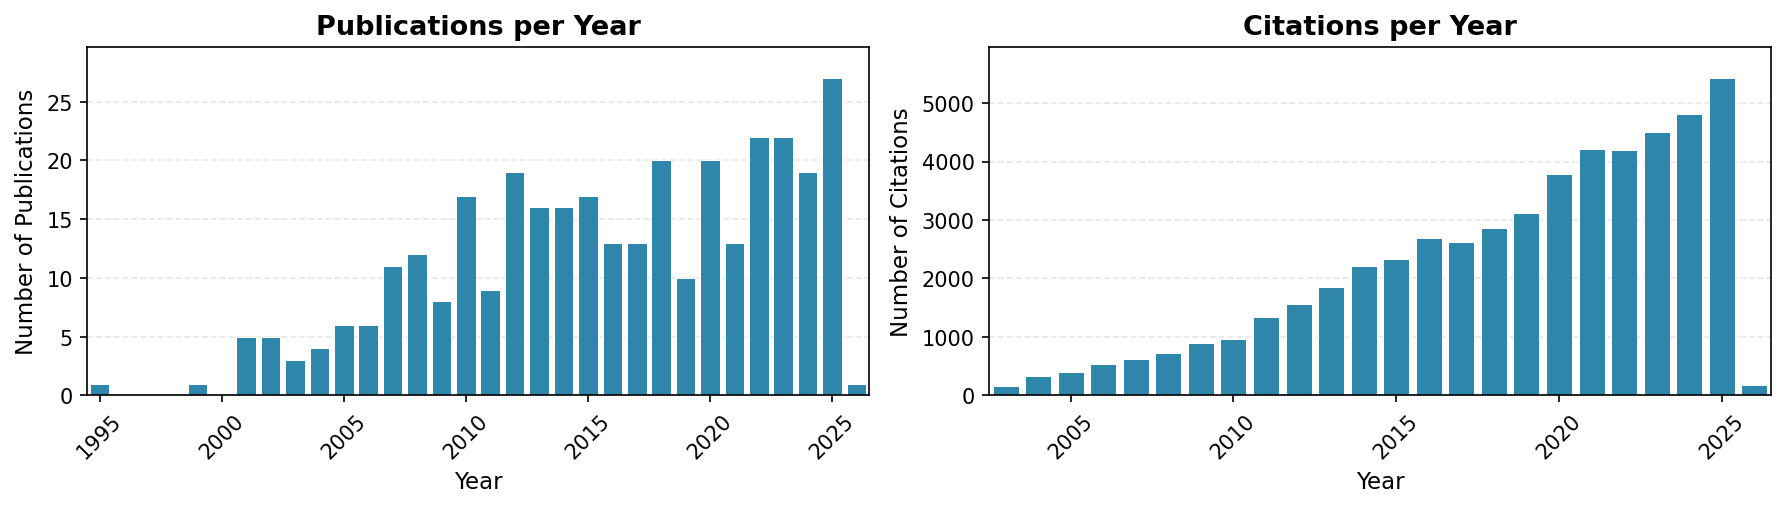
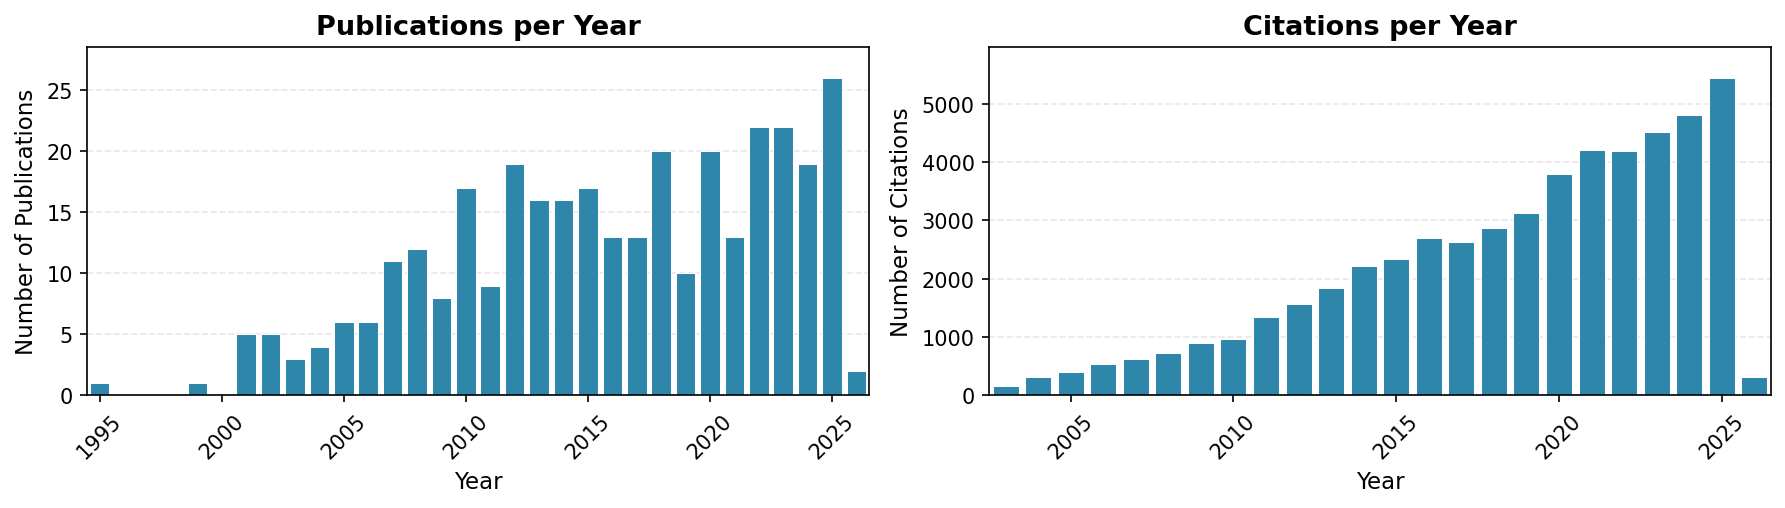
Update publication metrics, add new publication for 2026, and revise citation counts; modify settings and resource files

diff --git a/pages/resources.md b/pages/resources.md
@@ -91,7 +91,7 @@ Example publications describing the Stellar from the MacCoss lab include:
 - **External Tools**: Skyline has an external tool framework. We have a [tool store](http://skyline.ms/tools.url) with 20 tools currently available.
 - **Source Code** is available as part of the [Proteowizard project](https://github.com/ProteoWizard/pwiz).
 - **Original Publication** MacLean et al, [Skyline: an open source document editor for creating and analyzing targeted proteomics experiments](https://academic.oup.com/bioinformatics/article/26/7/966/212410), *Bioinformatics* 2010
-- **Cited:** 5,249 times
+- **Cited:** 5,258 times
 
 ### ![Proteowizard](../assets/images/logos/proteowizard-logo.jpg "Proteowizard")
 **Widely used software tools and libraries for mass spectrometry data analysis.**
@@ -99,7 +99,7 @@ Example publications describing the Stellar from the MacCoss lab include:
 - **Download and Documentation:** [https://proteowizard.sourceforge.io/](https://proteowizard.sourceforge.io/)
 - **Source Code:** Available on [Github](https://github.com/ProteoWizard/pwiz) and licensed under Apache 2.0.
 - **Original Publication:** Chambers et al, [A cross-platform toolkit for mass spectrometry and proteomics](https://www.nature.com/articles/nbt.2377), *Nature Biotechnology* 2012
-- **Cited:** 4,332 times
+- **Cited:** 4,354 times
 
 ### ![Panorama](../assets/images/logos/panorama_logo_h_onwhite_border.png "Panorama")
 **Web-based repository for Skyline documents and colaboration**
@@ -157,7 +157,7 @@ Example publications describing the Stellar from the MacCoss lab include:
 
 **[Browse all MacCoss Lab datasets on Panorama Public →](https://panoramaweb.org/project/Panorama%20Public/begin.view#searchTab:expSearchPanel?Targeted%20MS%20Experiment%20List.authors~containsoneof=MacCoss&)**
 
-*Last updated: January 11, 2026 — 32 datasets available*
+*Last updated: January 23, 2026 — 32 datasets available*
 
 ### Instrumentation
 *Mass spectrometer characterization and benchmarking*
@@ -263,7 +263,7 @@ Example publications describing the Stellar from the MacCoss lab include:
 
 ## Educational Materials
 
-*Last updated: January 06, 2026 — 28 Skyline tutorials available*
+*Last updated: January 23, 2026 — 28 Skyline tutorials available*
 
 ### UWPR Mass Spectrometry Resources
 
@@ -368,12 +368,14 @@ Example publications describing the Stellar from the MacCoss lab include:
 
 </div>
   </div>
+
+
   <div id="support" class="tab-content">
     <div markdown="1">
 
 ## Support & Training
 
-*Last updated: January 11, 2026 — 2 upcoming events, 101 past events, 27 webinars*
+*Last updated: January 23, 2026 — 2 upcoming events, 101 past events, 27 webinars*
 
 ### Forums and Discussion
 - [Skyline Support Board](https://skyline.ms/forum)
@@ -420,11 +422,11 @@ The Skyline Team presents tutorial webinars designed to help you get the most ou
 <div id="events-2025" style="display: block;">
 <h4>2025 Events</h4>
 <ul>
-<li><a href="https://skyline.ms/home/software/Skyline/events/2025-10%20Skyline%20Online/project-begin.view">Skyline Online 2025</a> (October 7-17, 2025)</li>
+<li><a href="https://skyline.ms/2025-10%20Skyline%20Online/project-begin.view">Skyline Online 2025</a> (October 7-17, 2025)</li>
 <li><a href="https://meetings.embo.org/event/25-targeted-proteomics">Practical Course on Targeted Proteomics</a> - Barcelona, Spain (October 5-10, 2025)</li>
-<li><a href="https://skyline.ms/home/software/Skyline/events/2025%20UW%20Course/project-begin.view">Skyline Course at the University of Washington</a> - Seattle, WA (July 7 - 11, 2025)</li>
+<li><a href="https://skyline.ms/2025%20UW%20Course/project-begin.view">Skyline Course at the University of Washington</a> - Seattle, WA (July 7 - 11, 2025)</li>
 <li><a href="https://www.asms.org/conferences/annual-conference/short-courses">Two-day Short Course: 08 Quantitative Proteomics: Case Studies</a> - Baltimore, MD</li>
-<li><a href="https://skyline.ms/2025-ugm.url">Skyline User Group Meeting</a> - Baltimore, MD (June 1, 2025)</li>
+<li><a href="https://skyline.ms/../../../../2025-ugm.url">Skyline User Group Meeting</a> - Baltimore, MD (June 1, 2025)</li>
 <li><a href="https://computationalproteomics.khoury.northeastern.edu/">May Institute - Computation and statistics for mass spectrometry and proteomics</a> - Northeastern University</li>
 <li><a href="https://www.isas.de/en/events/skyline-course-2025">2025 ISAS Dortmund Skyline Training Course</a> - Dortmund (April 7-10, 2025)</li>
 </ul>
@@ -434,10 +436,10 @@ The Skyline Team presents tutorial webinars designed to help you get the most ou
 <h4>2024 Events</h4>
 <ul>
 <li><a href="https://courses.crg.eu/events/targetedproteomics">Practical Course on Targeted Proteomics</a> - Barcelona, Spain (November 17-22, 2024)</li>
-<li><a href="https://skyline.ms/home/software/Skyline/events/2024-10%20Skyline%20Online/project-begin.view">2024 Skyline Online</a></li>
-<li><a href="https://skyline.ms/home/software/Skyline/events/2024%20UW%20Course/project-begin.view">UW Targeted Mass Spectrometry Course</a> - Seattle, WA (July 8 - 12, 2024)</li>
+<li><a href="https://skyline.ms/2024-10%20Skyline%20Online/project-begin.view">2024 Skyline Online</a></li>
+<li><a href="https://skyline.ms/2024%20UW%20Course/project-begin.view">UW Targeted Mass Spectrometry Course</a> - Seattle, WA (July 8 - 12, 2024)</li>
 <li><a href="https://www.asms.org/conferences/annual-conference/short-courses/two-day-courses%0A">Two-day Short Course: 08 Quantitative Proteomics: Case Studies</a> - Anaheim, CA (June 1 - 2, 2024)</li>
-<li><a href="https://skyline.ms/home/software/Skyline/events/2024%20User%20Group%20Meeting%20at%20ASMS/project-begin.view">Skyline User Group Meeting</a> - Anaheim, CA (June 2, 2024)</li>
+<li><a href="https://skyline.ms/2024%20User%20Group%20Meeting%20at%20ASMS/project-begin.view">Skyline User Group Meeting</a> - Anaheim, CA (June 2, 2024)</li>
 <li><a href="https://computationalproteomics.khoury.northeastern.edu/">May Institute - Computation and statistics for mass spectrometry and proteomics</a> - Northeastern University</li>
 <li><a href="https://www.isas.de/en/events/skyline2024">2024 ISAS Dortmund Skyline Training Course</a> - Dortmund (March 4-7, 2024)</li>
 <li><a href="https://portal.iitb.ac.in/ceqipapp/courseDetails.jsp?c_id=5476">2024 Advances in Proteomics Technologies Hands-on Workshop</a> - IIT, Bombay (February 17-18, 2024)</li>
@@ -449,9 +451,9 @@ The Skyline Team presents tutorial webinars designed to help you get the most ou
 <ul>
 <li><a href="https://meetings.embo.org/event/23-targeted-proteomics">Targeted Proteomics Course</a> (November 12 - 17, 2023)</li>
 <li><a href="https://www.ctosymposium.org/workshop">Option 2: Clinical and Translational Omics Symposium</a> (November 3, 2023)</li>
-<li><a href="https://skyline.ms/home/software/Skyline/events/2023-10%20Skyline%20Online/project-begin.view">2023-10 Skyline Online</a></li>
-<li><a href="https://skyline.ms/home/software/Skyline/events/2023%20UW%20Course/project-begin.view">UW Targeted Mass Spectrometry Course</a> - Seattle, WA</li>
-<li><a href="https://skyline.ms/2023-ugm.url">Skyline User Group Meeting at ASMS</a> - Houston, TX (June 4, 2023)</li>
+<li><a href="https://skyline.ms/2023-10%20Skyline%20Online/project-begin.view">2023-10 Skyline Online</a></li>
+<li><a href="https://skyline.ms/2023%20UW%20Course/project-begin.view">UW Targeted Mass Spectrometry Course</a> - Seattle, WA</li>
+<li><a href="https://skyline.ms/../../../../2023-ugm.url">Skyline User Group Meeting at ASMS</a> - Houston, TX (June 4, 2023)</li>
 <li><a href="https://www.asms.org/conferences/annual-conference/short-courses/two-day-courses">Short Course at ASMS</a> - Houston, TX (June 3-4, 2023)</li>
 <li><a href="https://www.isas.de/en/compact/skyline-course-2023-register-now">2023 ISAS Dortmund Skyline Training Course</a> - Dortmund (March 20-23, 2023)</li>
 <li><a href="https://mrmproteomics.com/product/workshop-registration/">MRM Proteomics Virtual MRM Targeted Quantitation Workshop</a> (January 21-22, 2023)</li>
@@ -461,30 +463,30 @@ The Skyline Team presents tutorial webinars designed to help you get the most ou
 <div id="events-2022" style="display: none;">
 <h4>2022 Events</h4>
 <ul>
-<li><a href="https://skyline.ms/home/software/Skyline/events/2022-10%20Skyline%20Online/page.view?name=all-sessions">2022-10 Skyline Online</a> (October 10 - 21, 2022)</li>
-<li><a href="https://skyline.ms/2022-uw-course.url">UW Targeted Mass Spectrometry Course</a> - Seattle, WA</li>
-<li><a href="https://skyline.ms/2022-ugm.url">Skyline User Group Meeting at ASMS (in-person)</a> - Minneapolis, MN (June 5, 2022)</li>
+<li><a href="https://skyline.ms/2022-10%20Skyline%20Online/page.view?name=all-sessions">2022-10 Skyline Online</a> (October 10 - 21, 2022)</li>
+<li><a href="https://skyline.ms/../../../../2022-uw-course.url">UW Targeted Mass Spectrometry Course</a> - Seattle, WA</li>
+<li><a href="https://skyline.ms/../../../../2022-ugm.url">Skyline User Group Meeting at ASMS (in-person)</a> - Minneapolis, MN (June 5, 2022)</li>
 <li><a href="https://computationalproteomics.khoury.northeastern.edu/">May Institute - Computation and statistics for mass spectrometry and proteomics</a> - Northeastern University (May 9 - 20, 2022)</li>
-<li><a href="https://skyline.ms/home/software/Skyline/events/2022%20Skyline%20Online/project-begin.view">2022 Skyline Online</a> (February 7 - 18, 2022)</li>
+<li><a href="https://skyline.ms/2022%20Skyline%20Online/project-begin.view">2022 Skyline Online</a> (February 7 - 18, 2022)</li>
 </ul>
 </div>
 
 <div id="events-2021" style="display: none;">
 <h4>2021 Events</h4>
 <ul>
-<li><a href="https://skyline.ms/2021-ugm.url">Skyline User Group Meeting at ASMS online</a> (October 27 - 28, 2021)</li>
+<li><a href="https://skyline.ms/../../../../2021-ugm.url">Skyline User Group Meeting at ASMS online</a> (October 27 - 28, 2021)</li>
 <li><a href="https://computationalproteomics.khoury.northeastern.edu/">May Institute - Computation and statistics for mass spectrometry and proteomics</a> - Northeastern University (May 3 - 14, 2021)</li>
-<li><a href="https://skyline.ms/home/software/Skyline/events/2021%20Skyline%20Online/project-begin.view">2021 Skyline Online</a> (April 12- 24, 2021)</li>
+<li><a href="https://skyline.ms/2021%20Skyline%20Online/project-begin.view">2021 Skyline Online</a> (April 12- 24, 2021)</li>
 </ul>
 </div>
 
 <div id="events-2020" style="display: none;">
 <h4>2020 Events</h4>
 <ul>
-<li><a href="https://skyline.ms/home/software/Skyline/events/2020%20Skyline%20Online/project-begin.view">2020 Skyline Online</a></li>
-<li><a href="https://skyline.ms/2020-ugm.url">Skyline User Group Meeting at ASMS online</a> (May 27 - 28, 2020)</li>
+<li><a href="https://skyline.ms/2020%20Skyline%20Online/project-begin.view">2020 Skyline Online</a></li>
+<li><a href="https://skyline.ms/../../../../2020-ugm.url">Skyline User Group Meeting at ASMS online</a> (May 27 - 28, 2020)</li>
 <li><a href="https://computationalproteomics.ccis.northeastern.edu/">May Institute for computation and statistics for mass spectrometry and proteomics</a> - Boston MA</li>
-<li><a href="https://skyline.ms/2020-buck-course.url">Targeted Proteomics Course</a> (April 13 - 17, 2020)</li>
+<li><a href="https://skyline.ms/../../../../2020-buck-course.url">Targeted Proteomics Course</a> (April 13 - 17, 2020)</li>
 </ul>
 </div>
 
@@ -493,11 +495,11 @@ The Skyline Team presents tutorial webinars designed to help you get the most ou
 <ul>
 <li><a href="https://web.archive.orghttp//meetings.embo.org/event/19-proteomics">Targeted Proteomics Course</a> (November 11 - 15, 2019)</li>
 <li><a href="https://www.qut.edu.au/institute-for-future-environments/about/events/carf-skyline-workshop">Pre-HUPO Targeted Proteomics Course</a> (September 9 - 13, 2019)</li>
-<li><a href="https://skyline.ms/home/software/Skyline/events/2019%20UW%20Course/project-begin.view">Skyline@UW: Targeted Quantitiative Mass Spec Course</a> - Seattle WA</li>
+<li><a href="https://skyline.ms/2019%20UW%20Course/project-begin.view">Skyline@UW: Targeted Quantitiative Mass Spec Course</a> - Seattle WA</li>
 <li><a href="https://computationalproteomics.ccis.northeastern.edu/">May Institute for computation and statistics for mass spectrometry and proteomics</a> - Boston MA</li>
 <li><a href="https://www.msacl.org/index.php?header=MSACL_2019_US&tab=Details&subtab=Short_Courses#skyline">Practical Proteomics with Skyline Short Course</a></li>
 <li><a href="https://www.msacl.org/index.php?header=MSACL_2019_US&tab=Details&subtab=Description">MSACL</a></li>
-<li><a href="https://skyline.ms/2019-buck-reg.url">Targeted Proteomics Course</a> (March 18 - 22, 2019)</li>
+<li><a href="https://skyline.ms/../../../../2019-buck-reg.url">Targeted Proteomics Course</a> (March 18 - 22, 2019)</li>
 <li><a href="https://web.archive.orghttp//www.ushupo.org/Conference/ShortCourses/tabid/68/Default.aspx#Design">Design and Analysis of Quantitative Proteomic Experiments</a> (March 2 - 3, 2019)</li>
 <li><a href="https://www.ushupo.org/Home/tabid/36/Default.aspx">US HUPO</a> (March 2 - 3, 2019)</li>
 </ul>
@@ -506,18 +508,18 @@ The Skyline Team presents tutorial webinars designed to help you get the most ou
 <div id="events-2018" style="display: none;">
 <h4>2018 Events</h4>
 <ul>
-<li><a href="https://skyline.ms/2018-duke-course.url">Skyline@Duke Short Course</a> (December 10 - 14, 2018)</li>
+<li><a href="https://skyline.ms/../../../../2018-duke-course.url">Skyline@Duke Short Course</a> (December 10 - 14, 2018)</li>
 <li><a href="https://web.archive.orghttp//meetings.embo.org/event/18-proteomics">Targeted Proteomics Course</a> (November 12-16, 2018)</li>
 <li><a href="https://web.archive.orghttp//iwtp2018.scievent.com/">International Targeted Proteomics Course</a> (October 22 - 23, 2018)</li>
-<li><a href="https://skyline.ms/home/software/Skyline/events/2018%20UW%20Course/project-begin.view">Targeted Proteomics Course</a> - Seattle WA</li>
+<li><a href="https://skyline.ms/2018%20UW%20Course/project-begin.view">Targeted Proteomics Course</a> - Seattle WA</li>
 <li><a href="https://web.archive.orghttp//dia-swath-course.ethz.ch/">SWATH/DIA Course</a> - Zurich (July 2 - 6, 2018)</li>
-<li><a href="https://skyline.ms/users-2018.url">Skyline User Group Meeting at ASMS</a> (June 3, 2018)</li>
+<li><a href="https://skyline.ms/../../../../users-2018.url">Skyline User Group Meeting at ASMS</a> (June 3, 2018)</li>
 <li><a href="https://web.archive.orghttp//www.asms.org/conferences/annual-conference/short-courses/two-day-courses">Case Studies in Quantitative Proteomics Workshop</a> (June 2 -3, 2018)</li>
 <li><a href="https://web.archive.orghttp//www.asms.org/conferences/annual-conference">ASMS</a> (June 2 -3, 2018)</li>
 <li><a href="https://web.archive.orghttp//www.asms.org/docs/default-source/conference-short-course-descriptions/14-quantitative-proteomics-case-studies.pdf?sfvrsn=2">Description</a> (June 2 -3, 2018)</li>
 <li><a href="https://web.archive.orghttp//computationalproteomics.ccis.northeastern.edu/">Computation & Statistics for Mass Spec & Proteomics Course</a> - Boston, MA</li>
-<li><a href="https://skyline.ms/home/software/Skyline/events/2018%20Buck%20Institute%20Course/project-begin.view">Targeted Proteomics Course</a> (April 2 - 6, 2018)</li>
-<li><a href="https://skyline.ms/home/software/Skyline/events/2018%20Buck%20Institute%20Course/project-begin.view">Targeted Proteomics Course</a> (April 2 - 6, 2018)</li>
+<li><a href="https://skyline.ms/2018%20Buck%20Institute%20Course/project-begin.view">Targeted Proteomics Course</a> (April 2 - 6, 2018)</li>
+<li><a href="https://skyline.ms/2018%20Buck%20Institute%20Course/project-begin.view">Targeted Proteomics Course</a> (April 2 - 6, 2018)</li>
 <li><a href="https://web.archive.orghttp//www.bio.iitb.ac.in/~sanjeeva/massfiitb/index.php/targeted-proteomics/">Targeted Proteomics Workshop</a> - IIT Bombay (February 24 - 27, 2018)</li>
 <li><a href="https://web.archive.orghttp//www.bio.iitb.ac.in/~sanjeeva/massfiitb/">IIT Bombay</a> - IIT Bombay (February 24 - 27, 2018)</li>
 <li><a href="https://web.archive.orghttp//www.australasianproteomics.org/pre-lorne-workshop-2018/">Pre-Lorne Workshop</a> (January 29-31, 2018)</li>
@@ -531,12 +533,12 @@ The Skyline Team presents tutorial webinars designed to help you get the most ou
 <ul>
 <li><a href="https://web.archive.orghttp//meetings.embo.org/event/17-proteomics">Targeted Proteomics Course</a> (November 13-17, 2017)</li>
 <li><a href="https://web.archive.orghttp//hupo2017.ie/pre-hupo-workshop-on-targeted-proteomics/">Quantitative Proteomic Workshop</a> (Sept 16-17, 2017)</li>
-<li><a href="https://skyline.ms/home/software/Skyline/events/2017%20UW%20Course/project-begin.view">Targeted Proteomics Course</a> - Seattle WA (July 24-28, 2017)</li>
+<li><a href="https://skyline.ms/2017%20UW%20Course/project-begin.view">Targeted Proteomics Course</a> - Seattle WA (July 24-28, 2017)</li>
 <li><a href="https://web.archive.orghttp//dia-swath-course.ethz.ch/">DIA/SWATH Proteomics Course</a> - Zurich (June 26-30, 2017)</li>
-<li><a href="https://skyline.ms/home/software/Skyline/events/2017%20User%20Group%20Meeting%20at%20ASMS/project-begin.view">Skyline User Group Meeting</a> (June 4, 2017)</li>
+<li><a href="https://skyline.ms/2017%20User%20Group%20Meeting%20at%20ASMS/project-begin.view">Skyline User Group Meeting</a> (June 4, 2017)</li>
 <li><a href="https://web.archive.orghttp//www.asms.org/conferences/annual-conference/short-courses/two-day-courses">Short Course #21: Case Studies in Quantitative Proteomics</a> (June 3-4, 2017)</li>
 <li><a href="https://web.archive.orghttp//computationalproteomics.ccis.northeastern.edu/">Computation Statistics for Targeted Proteomics Course</a> - Boston, MA (May 1-3, 2017)</li>
-<li><a href="https://skyline.ms/home/software/Skyline/events/2017%20Buck%20Institute%20Course/project-begin.view">Targeted Proteomics Course</a></li>
+<li><a href="https://skyline.ms/2017%20Buck%20Institute%20Course/project-begin.view">Targeted Proteomics Course</a></li>
 <li><a href="https://www.ushupo.org/Conference/ShortCourses/tabid/68/Default.aspx#Design">Design and Analysis of Quantitative Proteomic Experiments</a> - San Diego, CA (March 18-19, 2017)</li>
 </ul>
 </div>
@@ -547,10 +549,10 @@ The Skyline Team presents tutorial webinars designed to help you get the most ou
 <li><a href="https://web.archive.orghttp//www.acgt.co.za/">2016 ACGT Proteomics Symposium and Skyline Workshop</a> (December 5-8, 2016)</li>
 <li><a href="https://web.archive.orghttp//events.embo.org/16-targeted-proteomics/">Targeted Proteomics Course</a> (November 14-18, 2016)</li>
 <li><a href="https://web.archive.orghttp//events.embo.org/16-proteomics/">European Summer School on: Advanced Proteomics</a></li>
-<li><a href="https://skyline.ms/home/software/Skyline/events/2016%20UW%20Course/project-begin.view">Targeted Proteomics Course</a> - Seattle WA (July 18-22, 2016)</li>
+<li><a href="https://skyline.ms/2016%20UW%20Course/project-begin.view">Targeted Proteomics Course</a> - Seattle WA (July 18-22, 2016)</li>
 <li><a href="https://web.archive.orghttp//olga-vitek-lab.org/neu-short-course/">Computation & Statistics for Targeted Proteomics Course</a> - Boston, MA (May 2-6, 2016)</li>
 <li><a href="https://www.hupo.org/events/us-hupo-annual-conference-2016/">Short Course</a> (March 13, 2016)</li>
-<li><a href="https://skyline.ms/home/software/Skyline/events/2016%20Buck%20Institute%20Course/project-begin.view">Targeted Proteomics Course</a></li>
+<li><a href="https://skyline.ms/2016%20Buck%20Institute%20Course/project-begin.view">Targeted Proteomics Course</a></li>
 <li><a href="https://web.archive.orghttp//targetedproteomics.ethz.ch/">Targeted Proteomics Course</a> - Zurich (February 8-12, 2016)</li>
 </ul>
 </div>
@@ -564,11 +566,11 @@ The Skyline Team presents tutorial webinars designed to help you get the most ou
 <li><a href="https://skyline.ms/download.view?entityId=35c8929e-4003-102f-a8bb-da20258202b3&name=1st_jPOST%20workshop_v2.pdf">Short Course</a> (October 12, 2015)</li>
 <li><a href="https://web.archive.orghttp//www.fiocruz.br/ioc/cgi/cgilua.exe/sys/start.htm?infoid=2394&sid=32">Targeted Proteomics Workshop</a></li>
 <li><a href="https://web.archive.orghttp//targetedproteomics.ethz.ch/">Targeted Proteomics Course</a> - Zurich (June 22-26, 2015)</li>
-<li><a href="https://skyline.ms/home/software/Skyline/events/2015%20User%20Group%20Meeting%20at%20ASMS/project-begin.view">Skyline User Group Meeting</a> (May 31, 2015)</li>
+<li><a href="https://skyline.ms/2015%20User%20Group%20Meeting%20at%20ASMS/project-begin.view">Skyline User Group Meeting</a> (May 31, 2015)</li>
 <li><a href="https://web.archive.orghttp//www.asms.org/conferences/annual-conference/short-courses/two-day-courses">ASMS Short Course - Case Studies in Quantitative Proteome Bioinformatics</a></li>
 <li><a href="https://web.archive.orghttp//www.asms.org/docs/default-source/conference-short-course-descriptions/14---case-studies-quantitative.pdf?sfvrsn=2">description</a></li>
 <li><a href="https://web.archive.orghttp//olga-vitek-lab.org/neu-short-course/">Computation and Statistics for Discovery and Targeted Proteomics</a> (May 18-22, 2015)</li>
-<li><a href="https://skyline.ms/home/software/Skyline/events/2015%20UW%20Course/project-begin.view">Targeted Quantitative Proteomics Course</a> (March 23-27, 2015)</li>
+<li><a href="https://skyline.ms/2015%20UW%20Course/project-begin.view">Targeted Quantitative Proteomics Course</a> (March 23-27, 2015)</li>
 <li><a href="https://web.archive.orghttp//www.ushupo.org/Conference/ShortCourses/tabid/68/Default.aspx">Short Course</a> (March 15, 2015)</li>
 </ul>
 </div>
@@ -579,11 +581,11 @@ The Skyline Team presents tutorial webinars designed to help you get the most ou
 <li><a href="https://web.archive.orghttp//www.bio.iitb.ac.in/~sanjeeva/psi2014/?page_id=2935">Targeted Proteomics Workshop</a> - IIT Bombay (Dec 10-11, 2014)</li>
 <li><a href="https://web.archive.orghttp//goo.gl/AYZcSm">Targeted Proteomics Workshop</a> (Nov 26, 2014)</li>
 <li><a href="https://web.archive.orghttp//events.embo.org/14-targeted-proteomics/index.html">Targeted Proteomics Course</a></li>
-<li><a href="https://skyline.ms/home/software/Skyline/events/2014%20EMBO%20Course%20-%20Targeted%20Proteomics/project-begin.view">watch presentations</a></li>
+<li><a href="https://skyline.ms/2014%20EMBO%20Course%20-%20Targeted%20Proteomics/project-begin.view">watch presentations</a></li>
 <li><a href="https://web.archive.orghttp//www.proteomic-basics.eu/">EU Proteomics Summer School Workshops</a> (August 3-9, 2014)</li>
 <li><a href="https://web.archive.orghttp//www.asms.org/conferences/annual-conference/short-courses/two-day-courses">ASMS 2-Day Courses</a> - Baltimore, MD</li>
 <li><a href="https://web.archive.orghttp//www.ushupo.org/Conference/ShortCourses/tabid/68/Default.aspx">US HUPO Short Course</a> - Seattle, WA (April 6, 2014)</li>
-<li><a href="https://skyline.ms/home/software/Skyline/events/2014%20UW%20Course/project-begin.view">Targeted Quantitative Proteomics Course</a></li>
+<li><a href="https://skyline.ms/2014%20UW%20Course/project-begin.view">Targeted Quantitative Proteomics Course</a></li>
 <li><a href="https://web.archive.orghttp//conf.abrf.org/sw2">ABRF Workshop</a> (March 22, 2014)</li>
 <li><a href="https://web.archive.orghttp//www.srmcourse.ch/">SRM Course</a> - Zurich (Feb 10-14, 2014)</li>
 </ul>

diff --git a/pages/publications.md b/pages/publications.md
@@ -11,20 +11,20 @@ View our complete publication list on [Google Scholar](https://scholar.google.co
 ## Publication Metrics
 
 - **Total Publications**: 336 (317 peer-reviewed + 19 preprints)
-- **Total Citations**: 52,773 ([Google Scholar](https://scholar.google.com/citations?user=icweOB0AAAAJ&hl=en))
+- **Total Citations**: 52,939 ([Google Scholar](https://scholar.google.com/citations?user=icweOB0AAAAJ&hl=en))
 - **h-index**: 104
-- **Most Cited Paper**: "Skyline: an open source document editor for creating and analyzing targeted proteomics experiments" (5,249 citations)
+- **Most Cited Paper**: "Skyline: an open source document editor for creating and analyzing targeted proteomics experiments" (5,258 citations)
 
 ![Publication and Citation Metrics](../assets/images/publication-metrics.png)
 
-*Last updated: January 14, 2026 — 336 publications*
+*Last updated: January 23, 2026 — 336 publications*
 
 ## Publications by Year
 
 <div class="publications-container">
 <div class="year-navigation">
-<button class="year-button active" onclick="showYear(event, '2026')">2026 (1)</button>
-<button class="year-button" onclick="showYear(event, '2025')">2025 (27)</button>
+<button class="year-button active" onclick="showYear(event, '2026')">2026 (2)</button>
+<button class="year-button" onclick="showYear(event, '2025')">2025 (26)</button>
 <button class="year-button" onclick="showYear(event, '2024')">2024 (19)</button>
 <button class="year-button" onclick="showYear(event, '2023')">2023 (22)</button>
 <button class="year-button" onclick="showYear(event, '2022')">2022 (22)</button>
@@ -63,6 +63,11 @@ Plubell DL, Remes PM, Wu CC, Jacob CC, Merrihew GE, Hsu C, Shulman N, MacLean BX
 *Molecular & cellular proteomics : MCP* 2026 Jan:101506
 [PubMed](https://pubmed.ncbi.nlm.nih.gov/41512968/) | [DOI](https://doi.org/10.1016/j.mcpro.2026.101506)
 
+**The ProteomeXchange consortium in 2026: making proteomics data FAIR**
+Deutsch EW, Bandeira N, Perez-Riverol Y, Sharma V, Carver JJ, Mendoza L, Kundu DJ, Bandla C, Kamatchinathan S, Hewapathirana S, Sun Z, Kawano S, Okuda S, Connolly B, MacLean B, MacCoss MJ, Chen T, Zhu Y, Ishihama Y, Vizcaíno JA
+*Nucleic acids research* 2026 Jan;54(D1):D459-D469
+[PubMed](https://pubmed.ncbi.nlm.nih.gov/41206473/) | [DOI](https://doi.org/10.1093/nar/gkaf1146)
+
 </div>
 
 <div id="year-2025" class="year-content" markdown="1">
@@ -78,11 +83,6 @@ Straub G, Ananth V, Fondrie WE, Hsu C, Klaproth-Andrade D, Pominova M, Riffle M,
 Chen Y, Stevenson TK, Cao Y, Fish LA, Robbins JE, Merrihew GE, Park J, Hohman TJ, MacCoss MJ, Kaczorowski CC
 *Alzheimer's & dementia : the journal of the Alzheimer's Association* 2025 Nov;21(11):e70896
 [PubMed](https://pubmed.ncbi.nlm.nih.gov/41225772/) | [DOI](https://doi.org/10.1002/alz.70896)
-
-**The ProteomeXchange consortium in 2026: making proteomics data FAIR**
-Deutsch EW, Bandeira N, Perez-Riverol Y, Sharma V, Carver JJ, Mendoza L, Kundu DJ, Bandla C, Kamatchinathan S, Hewapathirana S, Sun Z, Kawano S, Okuda S, Connolly B, MacLean B, MacCoss MJ, Chen T, Zhu Y, Ishihama Y, Vizcaíno JA
-*Nucleic acids research* 2025 Nov
-[PubMed](https://pubmed.ncbi.nlm.nih.gov/41206473/) | [DOI](https://doi.org/10.1093/nar/gkaf1146)
 
 **Carafe enables high quality in silico spectral library generation for data-independent acquisition proteomics**
 Wen B, Hsu C, Shteynberg D, Zeng WF, Riffle M, Chang A, Mudge MC, Nunn BL, MacLean BX, Berg MD, Villén J, MacCoss MJ, Noble WS
